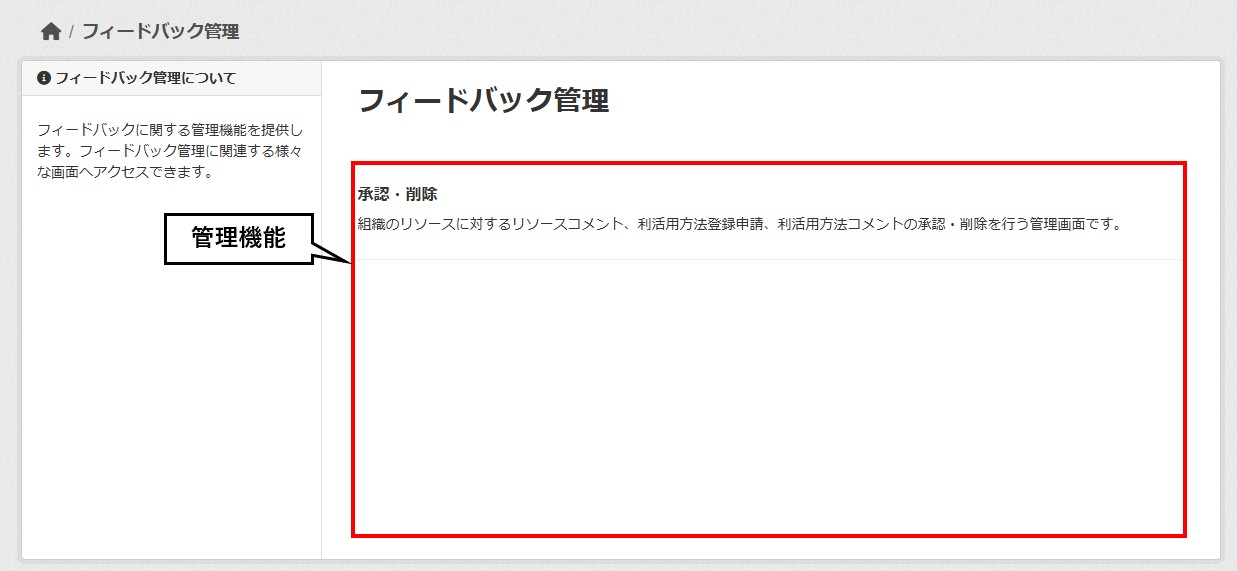
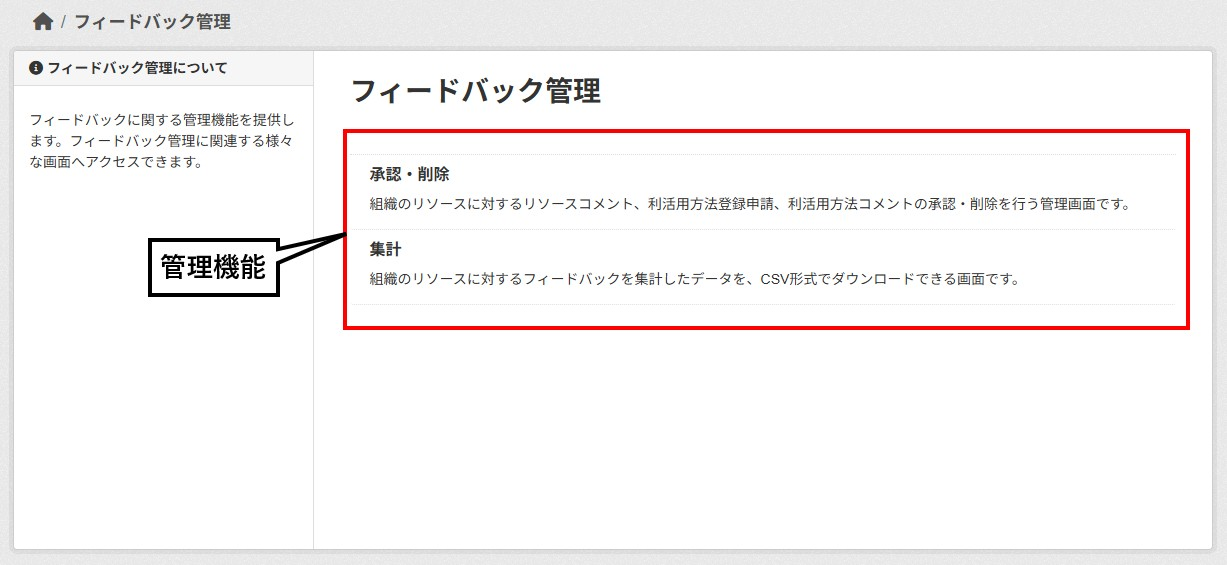
Update documentation.

Changed region(s): [[0.0, 0.0, 0.991, 0.9929]]

diff --git a/docs/ja/admin.md b/docs/ja/admin.md
@@ -51,13 +51,16 @@
 ## 集計画面
 組織のリソースに対するフィードバックを集計したデータを、CSV形式でダウンロードできる画面です。
 
-<!-- TODO:画面のスクリーンショットを添付 -->
+![承認・削除画面イメージ](../assets/aggregation_image.jpg)
+
+### 組織選択
+ログイン中のユーザーで管理している組織を選択することが可能です。  
+組織が１つの場合は、画面遷移時すでに組織が選択されています。  
+組織が複数ある場合は、画面遷移時には組織が選択されていません。
 
 ### レポートをダウンロード
-4種類のフィードバックの集計データがあり、期間を指定してダウンロードができます。
-- フィードバック月毎時系列レポート  
-  指定した期間の月毎に集計したデータを出力します。長期間のフィードバックの変動を確認できます。  
-  ファイル名：フィードバック月毎時系列レポート_yyyymm-yyyymm.csv
+3種類のフィードバックの集計データがあり、期間を指定してダウンロードができます。  
+※ 組織を選択していない場合は、レポートをダウンロードすることが出来ません。
 - フィードバック月次レポート  
   指定した月で集計したデータを出力します。  
   ファイル名：フィードバック月次レポート_yyyymm.csv
@@ -66,25 +69,24 @@
   ファイル名：フィードバック年次レポート_yyyy.csv
 - フィードバック全期間レポート  
   現在集計可能なすべての期間で集計したデータを出力します。  
-  ファイル名：
+  ファイル名：フィードバック全期間レポート.csv
 
 ### レポート内容
 出力されるレポートの内容は以下の通りです。  
 | No. | 項目 | 説明 |
 | :-: | :- | :- |
-| 1 | 日付 | 集計対象の日付が`yyyy-MM-01`の形式で出力される。フィードバック月毎時系列レポートにのみ出力。 |
-| 2 | リソースID | リソースに紐づくID。 |
-| 3 | 組織 | 組織タイトル。 |
-| 4 | データセット | データセットタイトル。 |
-| 5 | リソース | リソースタイトル。 |
-| 6 | ダウンロード数 | ダウンロードされた回数。 |
-| 7 | コメント数 | コメントされた回数。 |
-| 8 | 利活用数 | 利活用登録された回数。 |
-| 9 | 利活用コメント数 | 利活用コメントされた回数。 |
-| 10 | 課題解決数 | 課題解決された回数。 |
-| 11 | いいね数 | いいねされた回数。 |
-| 12 | レイティング | レイティングの平均。 |
-| 13 | URL | リソース画面のURL。 |
+| 1 | リソースID | リソースに紐づくID。 |
+| 2 | 組織名 | 組織タイトル。 |
+| 3 | データセット名 | データセットタイトル。 |
+| 4 | リソース名 | リソースタイトル。 |
+| 5 | ダウンロード数 | ダウンロードされた回数。 |
+| 6 | コメント数 | コメントされた回数。 |
+| 7 | 利活用数 | 利活用登録された回数。 |
+| 8 | 利活用コメント数 | 利活用コメントされた回数。 |
+| 9 | 課題解決数 | 課題解決された回数。 |
+| 10 | いいね数 | いいねされた回数。 |
+| 11 | 平均評価数 | レイティングの平均。 |
+| 12 | リンク | リソース画面のURL。 |
 
 ### CSVファイルの形式
 出力されるCSVは、Microsoft Excelで開くことを想定し、UTF-8 BOM付きの形式です。  
